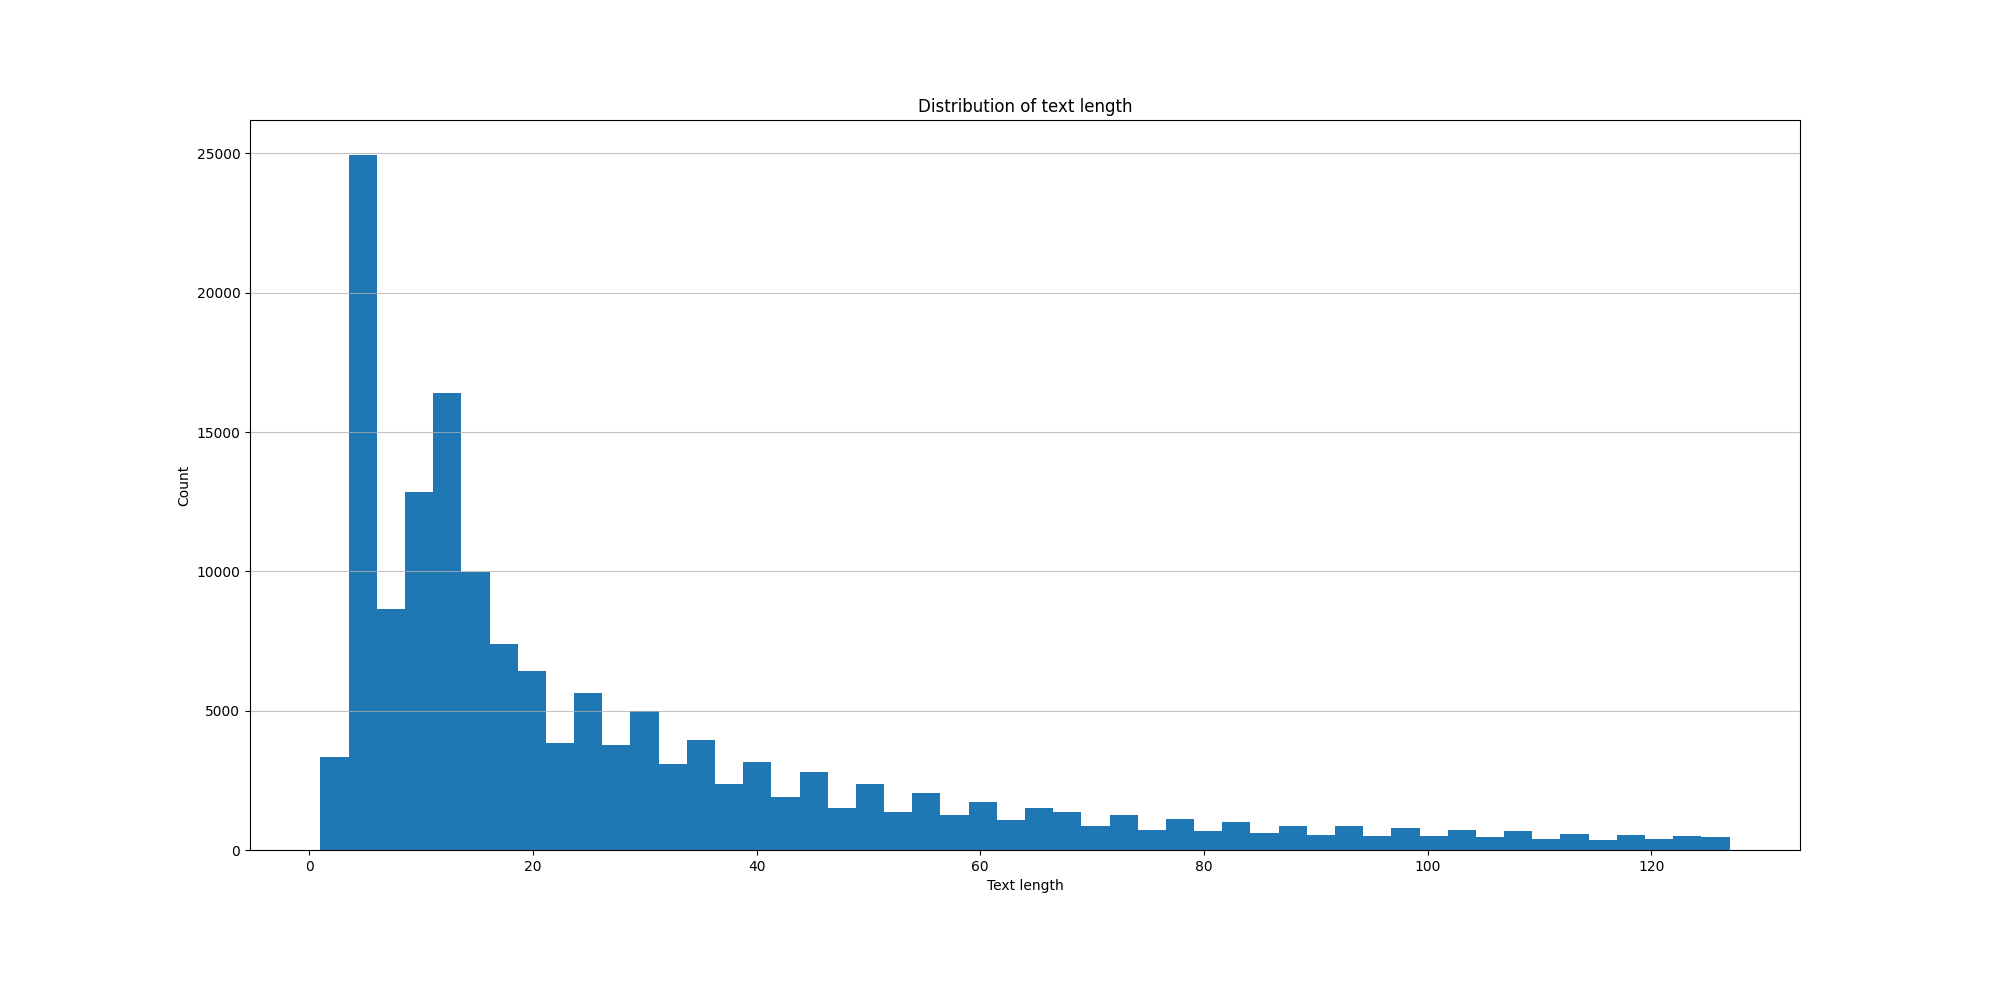
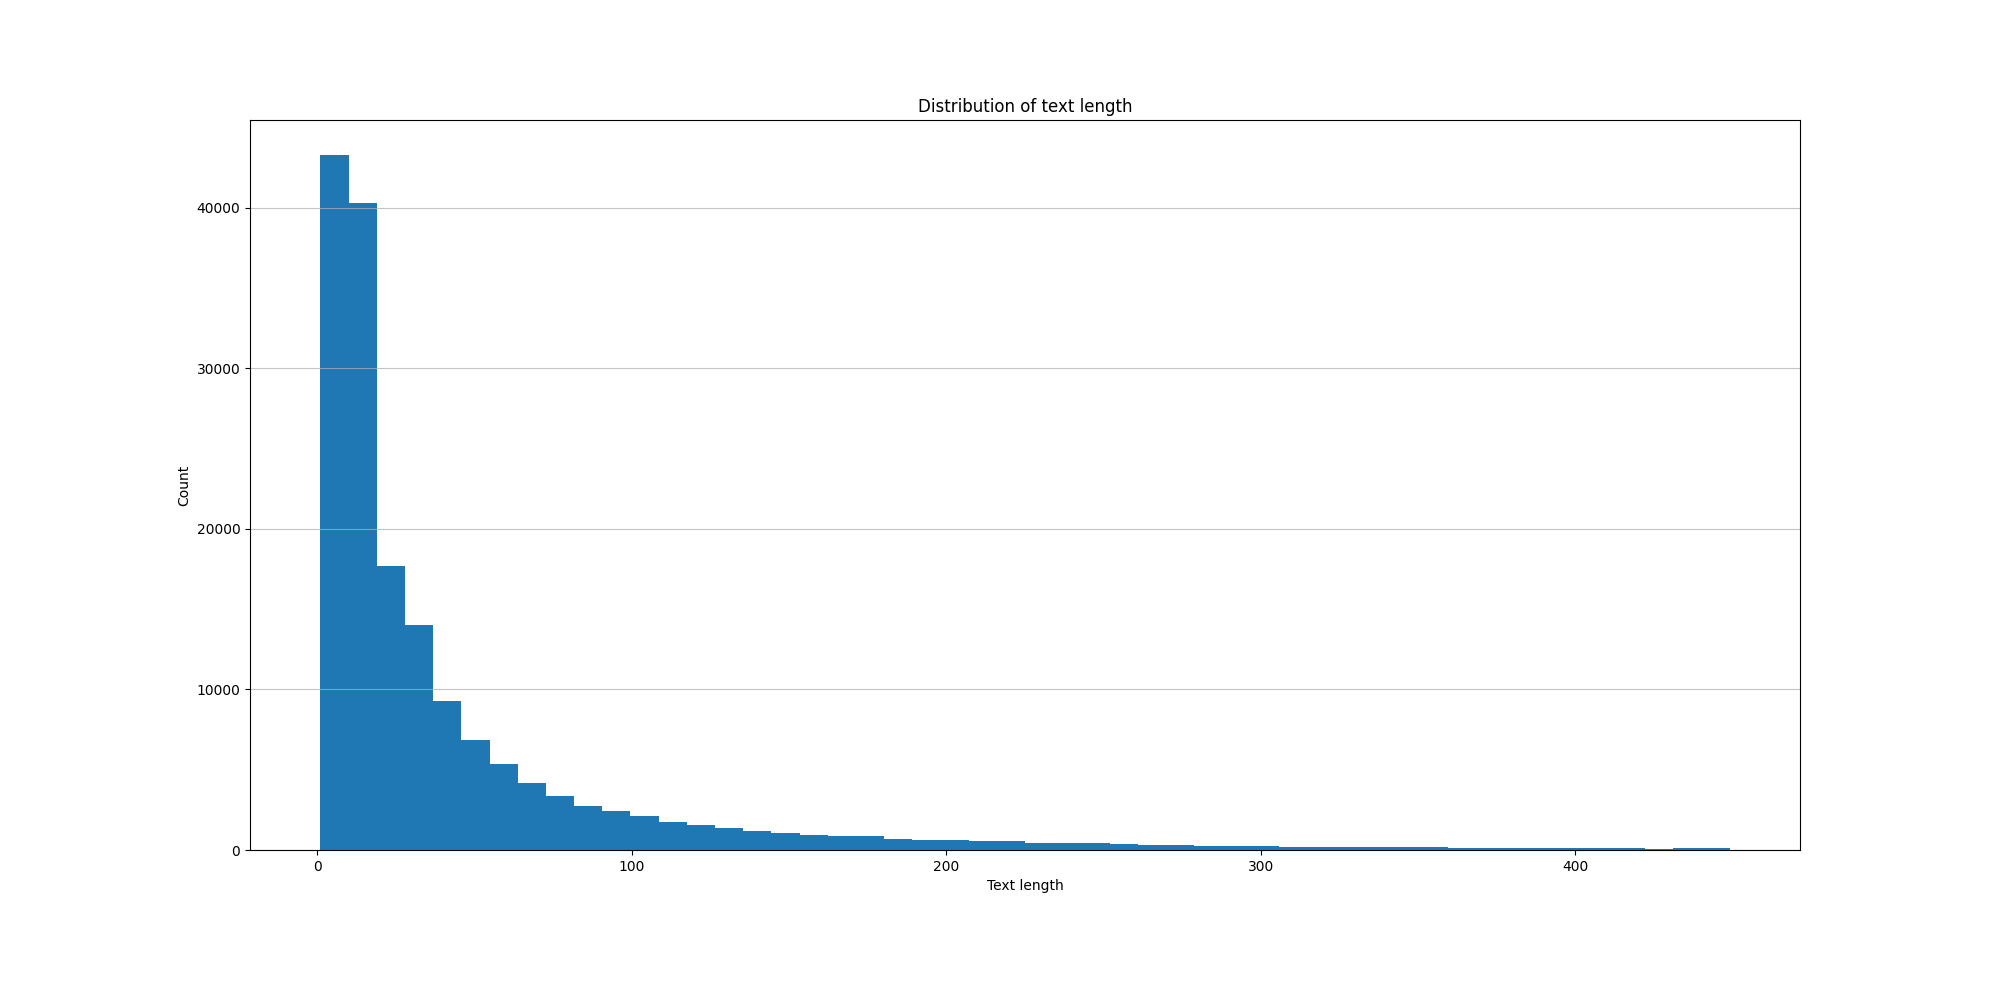
Finetune and cleanup

diff --git a/test_models.py b/test_models.py
@@ -3,6 +3,7 @@ from sklearn.naive_bayes import MultinomialNB
 from sklearn.metrics import accuracy_score
 from sklearn.pipeline import Pipeline
 from sklearn.metrics import classification_report
+from sklearn.model_selection import GridSearchCV
 from transformers import pipeline as transformers_pipeline
 from transformers import AutoModelForSequenceClassification, AutoTokenizer
 from evaluate import evaluator
@@ -34,6 +35,36 @@ def test_naive_bayes(train, test):
     save_results(test, predictions, "naive_bayes")
 
 
+def find_optimal_parameters(train, test):
+    pipe = Pipeline([('vectorizer', CountVectorizer()), ('MNB', MultinomialNB())])
+    GSCV = GridSearchCV(estimator=pipe,
+             param_grid={
+                    "vectorizer__binary" : [False, True],
+                    "vectorizer__ngram_range" : [(1,1),(2,2),(3,3),(4,4),(5,5)],
+                    "MNB__alpha" : [0.1,
+                                    0.5,
+                                    1.0,
+                                    1.5,
+                                    2.0]},
+                    n_jobs=-1)
+
+    GSCV.fit(train['Summary'], train['Sentiment'])
+    print(GSCV.best_params_)
+    predictions = GSCV.predict(test['Summary'])
+    save_results(test, predictions, "optimized_naive_bayes")
+
+
+def test_optimized_naive_bayes(train, test):
+    curr_pipeline = Pipeline([
+        ('vectorizer', CountVectorizer(binary = True, ngram_range=(2,2))),
+        ('classifier', MultinomialNB(alpha=0.1))
+    ])
+
+    curr_pipeline.fit(train['Summary'], train['Sentiment'])
+    predictions = curr_pipeline.predict(test['Summary'])
+    save_results(test, predictions, "optimized_naive_bayes")
+
+
 def test_simple_sentiment(test):
     global positive, negative, neutral
 
@@ -56,23 +87,25 @@ def test_my_model(test, path):
 
     device = torch.device("cuda" if torch.cuda.is_available() else "cpu")
 
-    # Load model
-    model = AutoModelForSequenceClassification.from_pretrained(path, num_labels=3)
-    model.to(device)
-    tokenizer = AutoTokenizer.from_pretrained("distilbert-base-uncased")
+    with torch.no_grad():
 
-    # Prepare data
-    test = test.reset_index(drop=True)
+        # Load model
+        model = AutoModelForSequenceClassification.from_pretrained(path, num_labels=3)
+        model.to(device)
+        tokenizer = AutoTokenizer.from_pretrained("distilbert-base-uncased")
 
-    batch_size = 128
+        # Prepare data
+        test = test.reset_index(drop=True)
 
-    # Predict
-    predictions = []
-    for i in range(0, len(test), batch_size):
-        batch = test[i:i+batch_size]
-        batch = tokenizer(batch['Summary'].tolist(), return_tensors="pt", max_length=128, truncation=True, padding=True)
-        batch = {k: v.to(device) for k, v in batch.items()}
-        outputs = model(**batch)
-        predictions.extend(torch.argmax(outputs.logits, dim=1).tolist())
+        batch_size = 64
 
-    save_results(test, predictions, path.replace("/", "_") + f"_{len(test)}")
+        # Predict
+        predictions = []
+        for i in range(0, len(test), batch_size):
+            batch = test[i:i+batch_size]
+            batch = tokenizer(batch['Summary'].tolist(), return_tensors="pt", max_length=128, truncation=True, padding=True)
+            batch = {k: v.to(device) for k, v in batch.items()}
+            outputs = model(**batch)
+            predictions.extend(torch.argmax(outputs.logits, dim=1).tolist())
+
+        save_results(test, predictions, path.replace("/", "_") + f"_{len(test)}")

diff --git a/read_data.py b/read_data.py
@@ -11,7 +11,13 @@ def read_clean_data():
     # Drop columns that are not needed
     data = data.drop(['ProductPrice', 'Review', 'Rate', 'ProductName'], axis=1)
 
+    # Remember how many rows we have
+    old_len = len(data)
+
     data = data.dropna()
+
+    # Check if we have dropped any rows
+    print(f"Removed {old_len - len(data)} rows with NaN values")
 
     # Convert to same values
     data['Sentiment'] = data['Sentiment'].replace(['Positive', 'Negative', 'Neutral'], ['positive', 'negative', 'neutral'])
@@ -19,8 +25,16 @@ def read_clean_data():
     # Convert to ints
     data['Sentiment'] = data['Sentiment'].replace(['positive', 'neutral', 'negative'], [2, 1, 0])
 
-    # Drop text longer than 128 and shorter than 10
-    data = data[data['Summary'].str.len() < 128]
+    old_len = len(data)
+    remove_len = 450
+    data = data[data['Summary'].str.len() < remove_len]
+    print(f"Removed {old_len - len(data)} rows with text longer than {remove_len} characters")
+
+    # This many rows are left
+    print(f"Rows left: {len(data)}")
+
+    # Convert all to lowercase
+    data['Summary'] = data['Summary'].str.lower()
 
     return data
 

diff --git a/train_my_model.py b/train_my_model.py
@@ -33,12 +33,6 @@ if __name__ == '__main__':
     train_data = cleaned_data.sample(frac=0.8, random_state=seed)
     test_data = cleaned_data.drop(train_data.index)
     validation_data = test_data
-    
-    # # Split data into train, test and validation
-    # train_data = cleaned_data.sample(frac=0.8, random_state=42)
-    # test_data = cleaned_data.drop(train_data.index)
-    # validation_data = test_data.sample(frac=0.5, random_state=42)
-    # test_data = test_data.drop(validation_data.index)
 
     # Fine tune "distilbert-base-uncased"
     tokenizer = AutoTokenizer.from_pretrained("distilbert-base-uncased")
@@ -69,8 +63,8 @@ if __name__ == '__main__':
         output_dir='./models/checkpoints/',
         learning_rate=2e-4,
         num_train_epochs=2,
-        per_device_train_batch_size=128,
-        per_device_eval_batch_size=128,
+        per_device_train_batch_size=64,
+        per_device_eval_batch_size=64,
         warmup_steps=250,                # number of warmup steps for learning rate scheduler
         weight_decay=0.02,               # strength of weight decay
         save_strategy="epoch",

diff --git a/main_tests.py b/main_tests.py
@@ -6,19 +6,24 @@ import torch
 import time
 
 from read_data import read_clean_data
-from test_models import test_naive_bayes, test_simple_sentiment, test_my_model
+from test_models import *
 
 if __name__ == '__main__':
     cleaned_data = read_clean_data()
 
     # Randomly split the data into train and test
     seed = 42
-    
+
+    #for seed in range(1, 5):
+
     train = cleaned_data.sample(frac=0.8, random_state=seed)
     test = cleaned_data.drop(train.index)
 
+
     # Naive Bayes
-    #test_naive_bayes(train, test)
+    #find_optimal_parameters(train, test) # Default parameters best...
+    test_naive_bayes(train, test)
+    test_optimized_naive_bayes(train, test) # No need to optimize, default parameters are best
 
     # bert
     #test_simple_sentiment(test)

diff --git a/simple_data_analysis.py b/simple_data_analysis.py
@@ -2,7 +2,7 @@ import matplotlib.pyplot as plt
 import spacy
 nlp = spacy.load('en_core_web_sm')
 
-from data import read_clean_data
+from read_data import read_clean_data
 
 def word_counts(data):
     word_counts = {}
@@ -58,6 +58,10 @@ def plot_text_length(data, save=False):
     data['Summary'].str.len().hist(bins=50)
     plt.savefig('plots/text_length.png') if save else plt.show()
 
+    # Print the length of the longest text
+    print(f"Longest text: {data['Summary'].str.len().max()}")
+    print(f"Shortest text: {data['Summary'].str.len().min()}")
+    print(f"Average text length: {data['Summary'].str.len().mean()}")
 
 def plot_distribution_sentiment(data, save=False):
     plt.clf()
